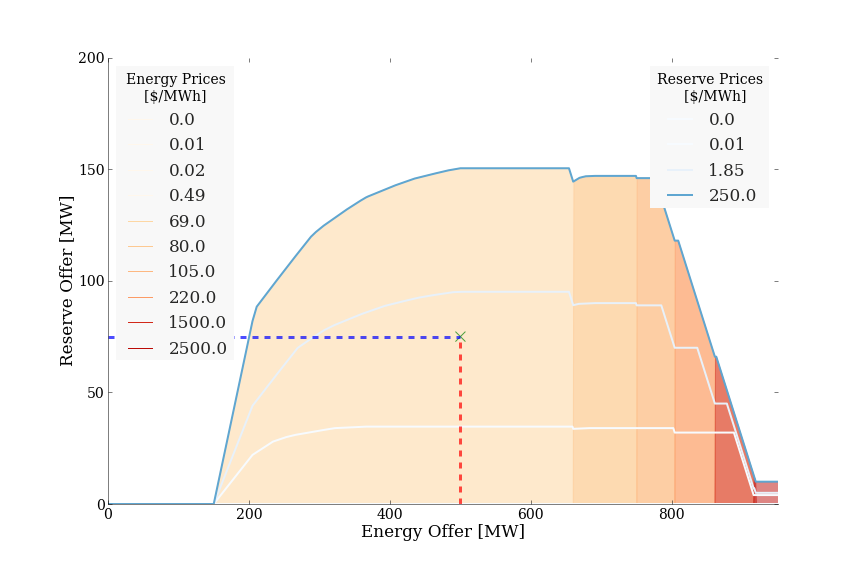
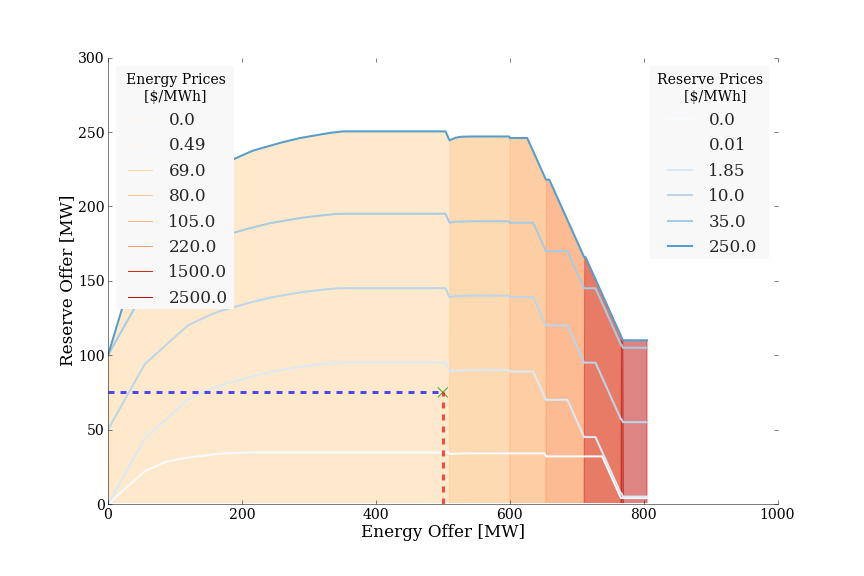
Resolves #3 Interruptible Load added.
Too add interruptible load to a plot a dictionary can be passed as an optional
argument of price-cumulative value pairs. These will be added to the
stack in the appropriate places

diff --git a/Tessen/visualise.py b/Tessen/visualise.py
@@ -36,7 +36,7 @@ def plot_fan(data, filters=None, fName=None, reserve_prices=None,
              energy_prices=None, reserve_colour=cm.Blues,
              energy_colour=cm.YlOrRd, set_xlim=None, set_ylim=None,
              energy_cleared=None, reserve_cleared=None,
-             fixed_colours=False):
+             fixed_colours=False, ilmap=None):
     """ Plot the Fan Curve. This is the publically exposed entry point to the
     visualisation. Data is supplied either as a DataFrame, or alternatively
     as a path for a csv file. This is then filtered and the resulting plot
@@ -60,6 +60,8 @@ def plot_fan(data, filters=None, fName=None, reserve_prices=None,
     fixed_colours: Default None, Optional Boolean, Will use a tranche based
                    colour scheme for identifying colours instead of a linear
                    spacing, better for assessing differences between periods.
+    ilmap: Dictionary mapping il prices to cumulative IL available.
+           This must be the cumulative IL stack not the incremental stack.
 
     Returns:
     --------
@@ -101,7 +103,7 @@ def plot_fan(data, filters=None, fName=None, reserve_prices=None,
                                set_xlim=set_xlim, set_ylim=set_ylim,
                                energy_cleared=energy_cleared,
                                reserve_cleared=reserve_cleared,
-                               fixed_colours=fixed_colours)
+                               fixed_colours=fixed_colours, ilmap=ilmap)
 
     if fName:
         fig.savefig(fName)
@@ -251,7 +253,8 @@ def _construct_reserve_line(data):
 def _generate_plot(aggregated_data, reserve_colour=cm.Blues,
                    energy_colour=cm.YlOrRd, energy_prices=None,
                    set_xlim=None, set_ylim=None, energy_cleared=None,
-                   reserve_cleared=None, fixed_colours=False):
+                   reserve_cleared=None, fixed_colours=False,
+                   ilmap=None):
     """ The nitty gritty of generating the plot figure
 
     Parameters:
@@ -267,6 +270,8 @@ def _generate_plot(aggregated_data, reserve_colour=cm.Blues,
     fixed_colours: Default None, Optional Boolean, Will use a tranche based
                    colour scheme for identifying colours instead of a linear
                    spacing, better for assessing differences between periods.
+    ilmap: Dictionary mapping il prices to cumulative IL available.
+           This must be the cumulative IL stack not the incremental stack.
 
     Returns:
     --------
@@ -279,7 +284,8 @@ def _generate_plot(aggregated_data, reserve_colour=cm.Blues,
     # Plot the reserve lines:
     axes, res_legend = _plot_reserve_contours(axes, aggregated_data,
                                               cmap=reserve_colour,
-                                              fixed_colours=fixed_colours)
+                                              fixed_colours=fixed_colours,
+                                              ilmap=ilmap)
 
     # Modify the legends
     res_legend = _legend(res_legend)
@@ -344,7 +350,7 @@ def _generate_plot(aggregated_data, reserve_colour=cm.Blues,
 
 
 def _plot_reserve_contours(axes, reserve_accumulations, cmap=cm.Blues,
-                           fixed_colours=False):
+                           fixed_colours=False, ilmap=None):
     """ Non publically exposed function, this plots the reserve lines in
     ascending fashion. Iterates through each key value pairing in the
     reserve dictionary and plots them in turn.
@@ -357,6 +363,8 @@ def _plot_reserve_contours(axes, reserve_accumulations, cmap=cm.Blues,
     fixed_colours: Default None, Optional Boolean, Will use a tranche based
                    colour scheme for identifying colours instead of a linear
                    spacing, better for assessing differences between periods.
+    ilmap: Dictionary mapping il prices to cumulative IL available.
+           This must be the cumulative IL stack not the incremental stack.
 
     Returns:
     --------
@@ -365,6 +373,9 @@ def _plot_reserve_contours(axes, reserve_accumulations, cmap=cm.Blues,
     """
 
     prices = np.sort(reserve_accumulations.keys())
+    if ilmap:
+        prices = np.unique(np.sort(prices.tolist() + ilmap.keys()))
+
     if fixed_colours:
         tranches = np.array([0, 0.5, 1.0, 5, 10, 25, 50, 75, 100, 300, 500,
                              750, 1000, 2500, 5000])
@@ -375,8 +386,28 @@ def _plot_reserve_contours(axes, reserve_accumulations, cmap=cm.Blues,
         colours = cmap(np.linspace(0, 1, len(prices)))
 
     lines = []
+    #oldline = np.zeros()
+    print reserve_accumulations.values
     for price, col in zip(prices, colours):
-        eprice, eline, rline = reserve_accumulations[price]
+        # Try and get a new value, may fail due to IL keys
+        # If it fails we use the last values
+        if price in reserve_accumulations.keys():
+            eprice, eline, rline = reserve_accumulations[price]
+        else:
+            rline = oldline
+        # Add IL Values
+        if ilmap:
+            # Save the oldline in case there is a pure IL change
+            # At the next step.
+            oldline = np.array(rline.tolist())
+            # Incase there are key issues wrap it in try loop
+            # This happens when there isn't a 0 prices IL offer.
+            try:
+                iladdition = ilmap[get_low(price, np.array(ilmap.keys()))]
+            except ValueError:
+                iladdition = 0
+            rline += iladdition
+
         lines.append(axes.plot(eline, rline, label=price, color=col,
                                linewidth=2)[0])
 
